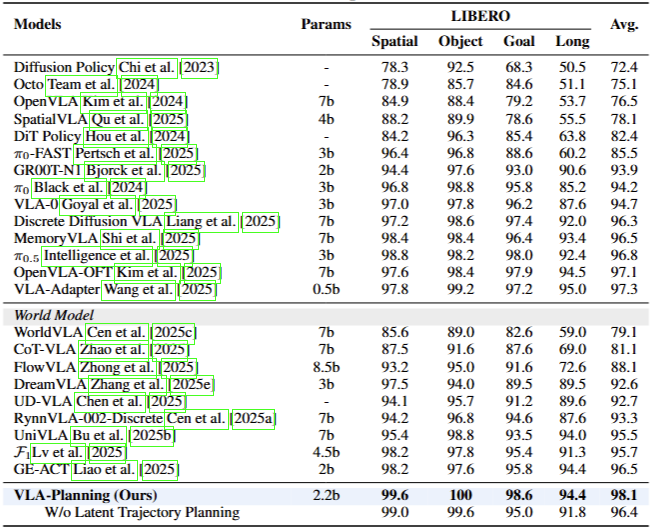
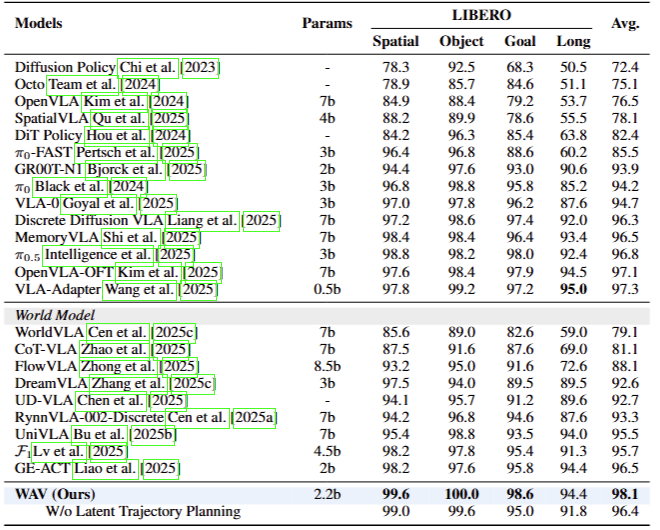
readme changed

diff --git a/README.md b/README.md
@@ -1,17 +1,17 @@
-# VLA-Planning: World-Model Predictive Control for Vision-Language-Action Models
+# World-Value-Action Model: Implicit Planning for Vision-Language-Action Systems
 
 <div id="top" align="center">
 
 ![Teaser](figs/vla_mpc_overview_1.png)
 
-<a href='NeurIPS_2026_model_based.pdf'><img src='https://img.shields.io/badge/Paper-Draft-red'></a> &nbsp;
-<img src='https://img.shields.io/badge/Site-Research%20Release-blue'>
+<a href='https://arxiv.org/abs/2604.14732'><img src='https://img.shields.io/badge/Paper-arxiv-red'></a> &nbsp;
+<a href='https://arxiv.org/abs/2604.14732'><img src='https://img.shields.io/badge/Site-Research%20Release-blue'>
 
 </div>
 
-This repository contains the implementation of **VLA-Planning**, a world-model-based  framework. The central idea is to unify **instruction-conditioned video prediction**, **trajectory value estimation**, **action decoding**, and **latent trajectory planning** within a single multi-view diffusion transformer for long-horizon robotic manipulation.
+This repository contains the implementation of **World-Value-Action Model(WAV)**, a world-model-based  framework. The central idea is to unify **instruction-conditioned video prediction**, **trajectory value estimation**, **action decoding**, and **latent trajectory planning** within a single multi-view diffusion transformer for long-horizon robotic manipulation.
 
-Instead of planning directly in action space, VLA-Planning performs iterative inference in a compact latent trajectory space. This design biases sampling toward feasible futures, allows trajectory-level evaluation before action execution, and improves long-horizon decision making in both simulated and real-world settings.
+Instead of planning directly in action space, WAV performs iterative inference in a compact latent trajectory space. This design biases sampling toward feasible futures, allows trajectory-level evaluation before action execution, and improves long-horizon decision making in both simulated and real-world settings.
 
 
 ## Highlights
@@ -22,13 +22,13 @@ Instead of planning directly in action space, VLA-Planning performs iterative in
 - Support for **LIBERO closed-loop evaluation**, open-loop validation, and **real-world deployment**.
 ## TODO
 - [x] Release inference & training code
-- [] Release model weights
+- [ ] Release model weights
 
 ## Method Overview
 
 ### Motivation
 
-Direct action prediction is often insufficient for long-horizon embodied tasks because it provides limited trajectory-level reasoning. VLA-Planning addresses this by first imagining future visual trajectories, then evaluating their long-horizon quality, and finally decoding executable robot actions from optimized trajectory features.
+Direct action prediction is often insufficient for long-horizon embodied tasks because it provides limited trajectory-level reasoning. WAV addresses this by first imagining future visual trajectories, then evaluating their long-horizon quality, and finally decoding executable robot actions from optimized trajectory features.
 
 The current paper motivates this design from a model-based planning perspective:
 
@@ -39,7 +39,7 @@ The current paper motivates this design from a model-based planning perspective:
 
 ### Architecture
 
-VLA-Planning decomposes planning and control into three tightly coupled modules:
+WAV decomposes planning and control into three tightly coupled modules:
 
 1. **Instruction-conditioned video generation.**
    A multi-view diffusion transformer predicts future visual trajectories conditioned on history frames and language instructions.
